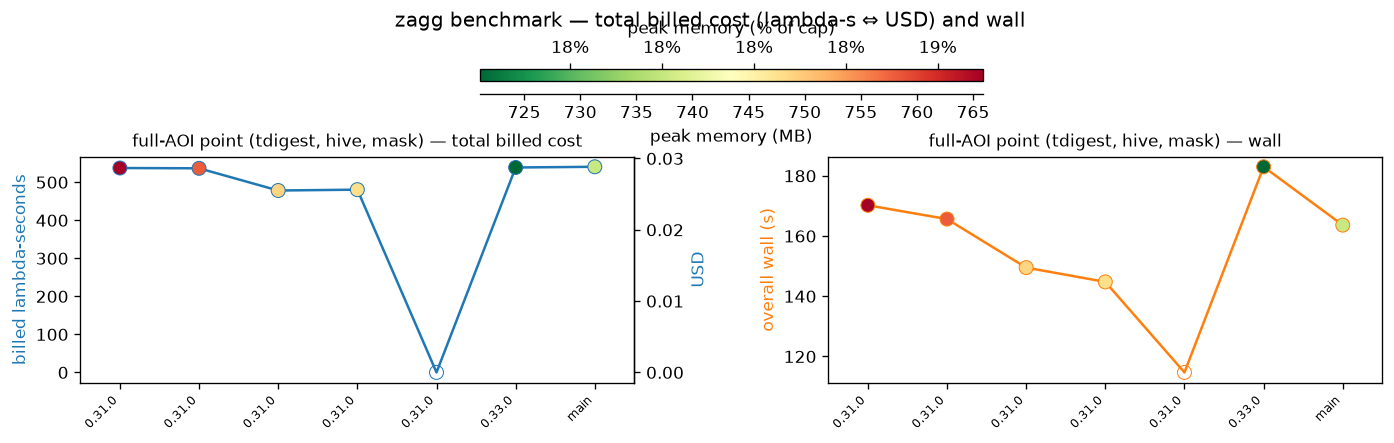
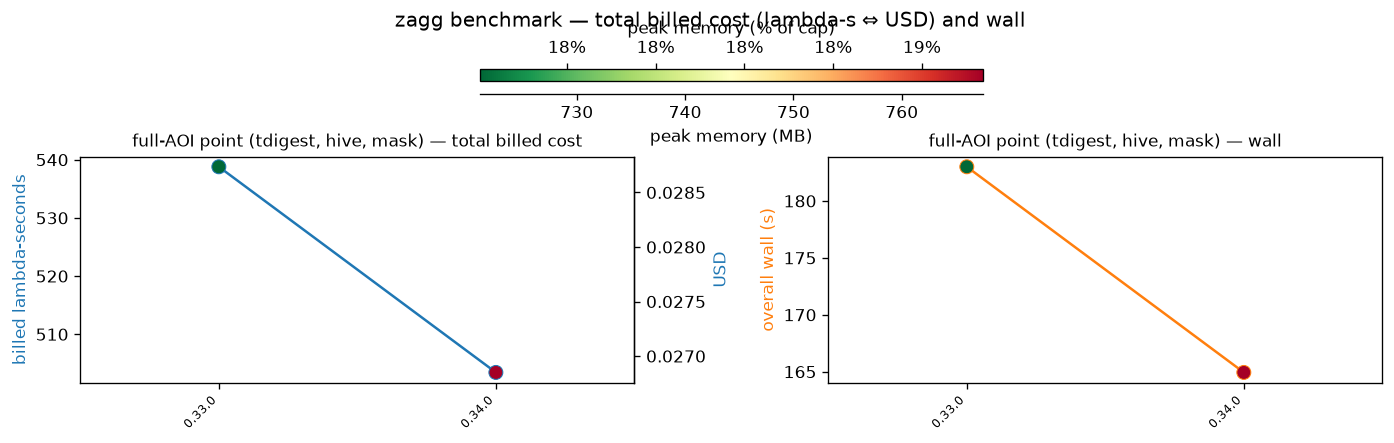
full-aoi benchmark: 0.34.0

diff --git a/site/index.html b/site/index.html
@@ -9,6 +9,8 @@
 <p>The whole AOP_NEON box, every shard, once per release tag — the point (tdigest, hive, AOI mask) and raster (Sentinel-2 2025) legs.</p>
 <h3>Summary — total billed cost (lambda-s ⇔ USD) and wall</h3>
 <img src="full_aoi_summary.png" alt="full_aoi_summary">
+<h3>Point pipeline — latest release (with time-to-first-consumer)</h3>
+<img src="full_aoi_point_table.png" alt="full_aoi_point_table">
 <h3>Point pipeline — per-phase seconds (max shard)</h3>
 <img src="full_aoi_point_phases.png" alt="full_aoi_point_phases">
 <h3>Store objects (issue #240 tripwire)</h3>
@@ -16,9 +18,6 @@
 <hr>
 <h2>Per commit to main (single densest shard)</h2>
 <p>One configuration — o9, hive, sharded, tdigest, no AOI mask — isolating code deltas from data drift (merge sha on the x-axis).</p>
-<h3>Latest merge</h3>
-<img src="merge_table.png" alt="latest merge benchmark table">
-<p>Machine-readable: <a href="latest.md">latest.md</a> · <a href="metrics.json">metrics.json</a></p>
 <h3>Summary — total billed cost (lambda-s ⇔ USD) and wall</h3>
 <img src="merge_summary.png" alt="merge_summary">
 <h3>Diagnostics — per-phase seconds</h3>
